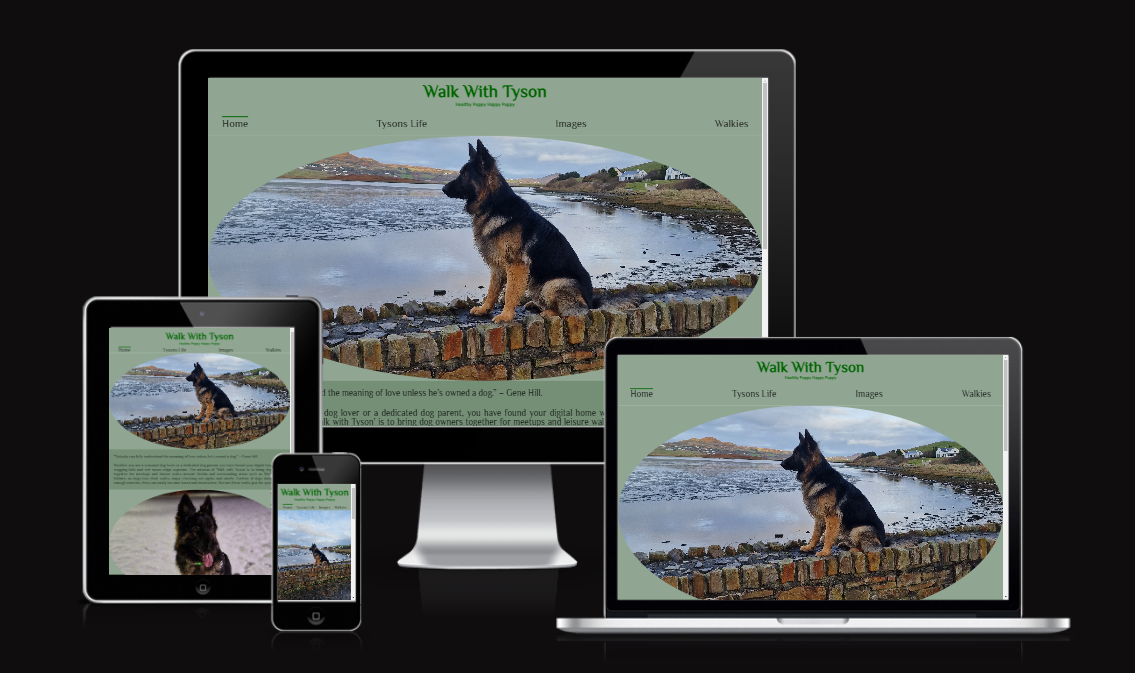
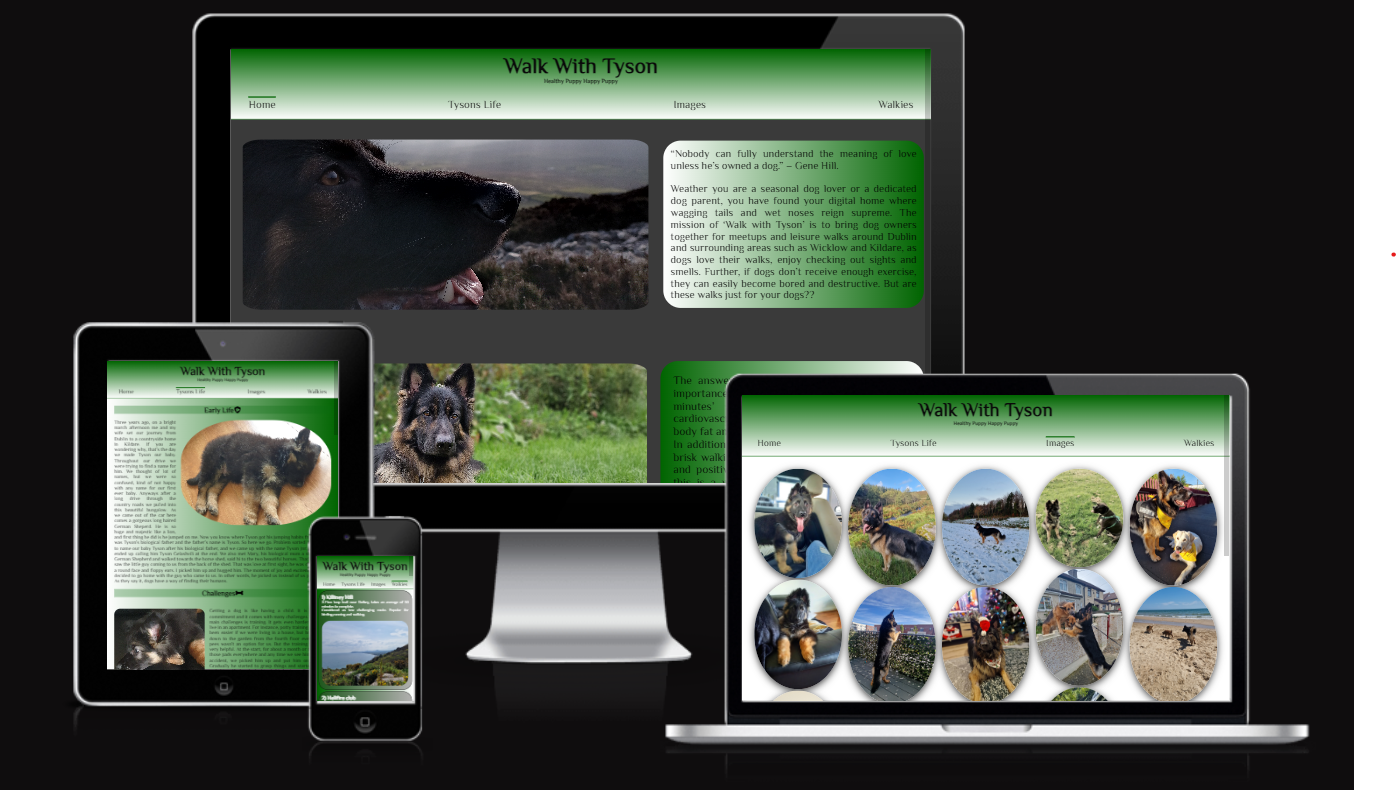
add new size to images and change there positions in tysons-life.html

diff --git a/assets/css/style.css b/assets/css/style.css
@@ -256,6 +256,7 @@ main {
     width: 100%;
     height: auto;
     border-radius: 30px;
+    f
     
 }
 
@@ -521,6 +522,7 @@ main {
         width: 390px;
         height: 370px;
         margin-left: 8px;
+        background-size: cover;
     
     }
 
@@ -782,7 +784,8 @@ main {
     } 
 
     .early-life .img1 {
-        height: 350px;
+        height: 270px;
+        border-radius: 20px;
     }
 
     .challenges h2 {
@@ -795,9 +798,9 @@ main {
 
 
     .challenges .img2 {
-        background-position: bottom;
-        height: 270px;
-        width:30%;
+        height: 240px;
+        border-radius: 10px;
+        
     }
 
     .happy-times h2 {
@@ -807,12 +810,32 @@ main {
     .happy-times p {
         font-size: 22px;
     }
+
+    .happy-times .img4{
+        object-fit: cover;
+        border-radius: 40px;
+        width: 450px;
+        margin: 0;
+    }
+
+    .happy-times .img3 {
+        object-fit: cover;
+        width: 40%;
+        height: 600px;
+        float: right;
+        margin-left: 15px;
+    }
+
     .behaviours h2 {
         font-size: 40px;
     }
 
     .behaviours p {
         font-size: 22px;
+    }
+
+    .behaviours .img6 {
+        width: 50%;
     }
 
     .health h2 {
@@ -877,6 +900,7 @@ main {
     .meetup3-text p {
         font-size: 18px;
     }
+
 
     .meetup4-text {
         height: 24em;

diff --git a/README.md b/README.md
@@ -116,7 +116,7 @@ A fully responsive Navigation Menu is available for users on top of all the four
 
 The main page consists of two photos of Tyson (German Shepherd dog) and text content.  The first photo is placed right below the navigation menu, which is followed by a quote.  Underneath it, there is a paragraph explaining the aim of the website, which is brining dogs and their owners together for walks. Below that, there is another photo of dog followed by the second paragraph that continues to explain about the website.
 
-![Main Page](readme-images/main_page.png)
+![Main Page](readme-images/main.png)
 
 
 ## Footer
